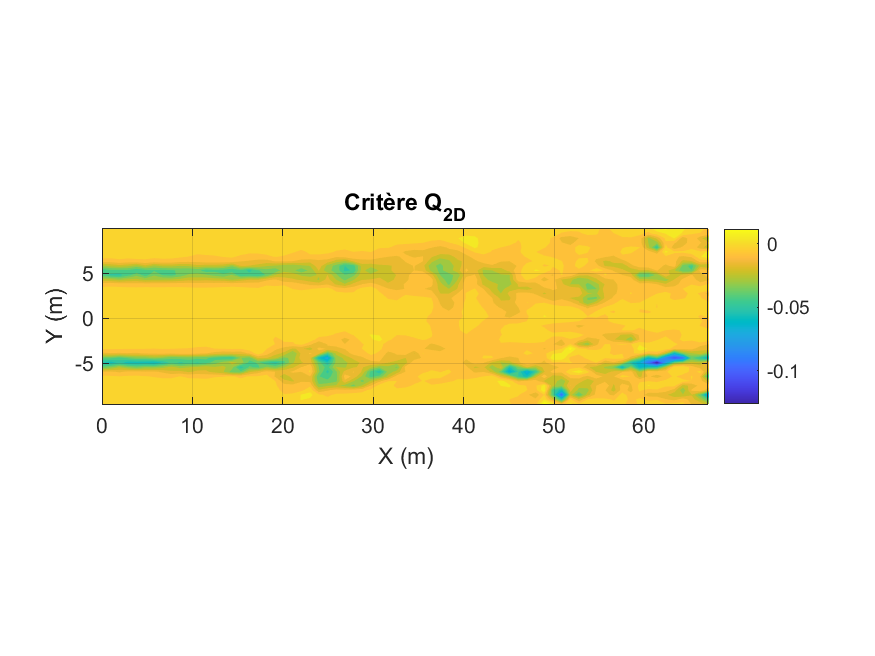
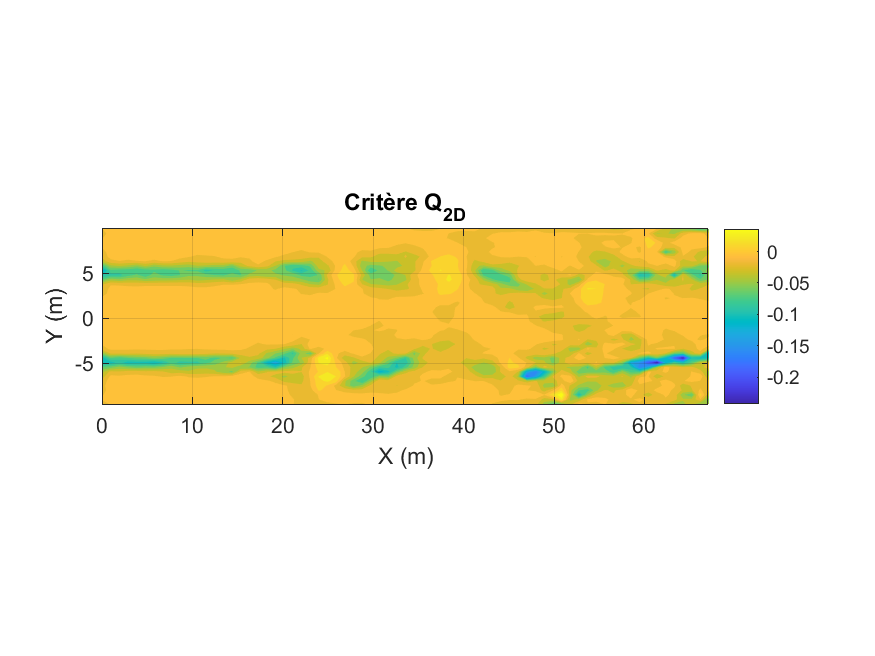
finalisation partie 1

diff --git a/src/projet.m b/src/projet.m
@@ -116,8 +116,6 @@ saveas(gcf, '../results/isocontours_corr_with_trend.png');
 
 I = 71;
 J = 39;
-Uc_center = 0.02;
-
 data = readmatrix('../data/champs/champ0020.dat', ...
     'FileType', 'text', 'NumHeaderLines', 2);
 
@@ -146,61 +144,65 @@ xStart_inlet = xLeft * ones(size(yStart));
 
 figure;
 set(gcf, 'Visible', 'off')
+% Crée un fond neutre blanc pour "encadrer" le champ comme un contourf vide
+contourf(X, Y, zeros(size(X)), 1, 'LineColor', 'none');
+colormap([1 1 1]);  % fond blanc
+hold on;
 quiver(X, Y, u, v);
-xlabel('X (m)'); ylabel('Y (m)');
+hold off;
+xlabel('X (m)');
+ylabel('Y (m)');
 title('Champ de vecteurs - Référentiel fixe');
 axis equal; grid on;
-saveas(gcf, '../results/champ_vect_ref_mes.png');
+ylim([-10, 10]);  % borne verticale comme demandé
+saveas(gcf, '../results/champ_vect_box_ref_mes.png');
 
 figure;
 set(gcf, 'Visible', 'off')
-verts_fixed_domain = stream2(X, Y, u, v, Xstart_domain, Ystart_domain);
-hlines_fixed_domain = streamline(verts_fixed_domain);
-set(hlines_fixed_domain, 'LineWidth', 0.5);
-xlabel('X (m)'); ylabel('Y (m)');
+% On fait une "fausse" carte de fond blanche uniforme
+contourf(X, Y, zeros(size(X)), 1, 'LineColor', 'none'); 
+colormap([1 1 1]);  % blanc
+hold on;
+% Tracé des streamlines
+streamslice(X, Y, u, v, 2);  % Densité contrôlée
+hold off;
+axis equal; grid on;
+xlabel('X (m)');
+ylabel('Y (m)');
 title('Lignes de courant - Référentiel fixe');
-axis equal; grid on;
-saveas(gcf, '../results/streamlines_ref_mes_domain.png');
+ylim([-10, 10]);
+saveas(gcf, '../results/streamlines_box_ref_fixe.png');
 
 figure;
 set(gcf, 'Visible', 'off')
-verts_fixed_inlet = stream2(X, Y, u, v, xStart_inlet, yStart);
-hlines_fixed_inlet = streamline(verts_fixed_inlet);
-set(hlines_fixed_inlet, 'LineWidth', 0.5);
-xlabel('X (m)'); ylabel('Y (m)');
-title('Lignes de courant - Référentiel fixe (Inlet Only)');
-axis equal; grid on;
-saveas(gcf, '../results/streamlines_ref_mes_inlet.png');
-
-figure;
-set(gcf, 'Visible', 'off')
+% Crée un fond neutre blanc pour "encadrer" le champ comme un contourf vide
+contourf(X, Y, zeros(size(X)), 1, 'LineColor', 'none');
+colormap([1 1 1]);  % fond blanc
+hold on;
 quiver(X, Y, u_moving, v_moving);
-xlabel('X (m)'); ylabel('Y (m)');
-title('Champ de vecteurs - Référentiel en translation');
+hold off;
+xlabel('X (m)');
+ylabel('Y (m)');
+title('Champ de vecteurs - Référentiel en tranlation');
 axis equal; grid on;
-saveas(gcf, '../results/champ_vect_ref_moving.png');
+ylim([-10, 10]);  % borne verticale comme demandé
+saveas(gcf, '../results/champ_vect_box_ref_moving.png');
 
 figure;
 set(gcf, 'Visible', 'off')
-verts_moving_domain = stream2(X, Y, u_moving, v_moving, ...
-                              Xstart_domain, Ystart_domain);
-hlines_moving_domain = streamline(verts_moving_domain);
-set(hlines_moving_domain, 'LineWidth', 0.5);
-xlabel('X (m)'); ylabel('Y (m)');
+% On fait une "fausse" carte de fond blanche uniforme
+contourf(X, Y, zeros(size(X)), 1, 'LineColor', 'none'); 
+colormap([1 1 1]);  % blanc
+hold on;
+% Tracé des streamlines
+streamslice(X, Y, u_moving, v_moving, 2);  % Densité contrôlée
+hold off;
+axis equal; grid on;
+xlabel('X (m)');
+ylabel('Y (m)');
 title('Lignes de courant - Référentiel en translation');
-axis equal; grid on;
-saveas(gcf, '../results/streamlines_ref_moving_domain.png');
-
-figure;
-set(gcf, 'Visible', 'off')
-verts_moving_inlet = stream2(X, Y, u_moving, v_moving, ...
-                             xStart_inlet, yStart);
-hlines_moving_inlet = streamline(verts_moving_inlet);
-set(hlines_moving_inlet, 'LineWidth', 0.5);
-xlabel('X (m)'); ylabel('Y (m)');
-title('Lignes de courant - Référentiel en translation (Inlet Only)');
-axis equal; grid on;
-saveas(gcf, '../results/streamlines_ref_moving_inlet.png');
+ylim([-10, 10]);
+saveas(gcf, '../results/streamlines_box_ref_moving.png');
 
 % ================================
 % QUESTION 4
@@ -209,10 +211,11 @@ saveas(gcf, '../results/streamlines_ref_moving_inlet.png');
 dx = mean(diff(X(1, :)));
 dy = mean(diff(Y(:, 1)));
 
-[dVdY, dVdX] = gradient(v, dy, dx);
-[dUdY, dUdX] = gradient(u, dy, dx);
+% Méthode de différences centrées avec circshift
+dvdx = (circshift(v, [0, -1]) - circshift(v, [0, 1])) / (2 * dx);
+dudy = (circshift(u, [-1, 0]) - circshift(u, [1, 0])) / (2 * dy);
+omega_z = dvdx - dudy;
 
-omega_z = dVdX - dUdY;
 
 figure;
 set(gcf, 'Visible', 'off')
@@ -228,15 +231,13 @@ nbPointsDomain = 20;
 xRange = linspace(min(X(:)), max(X(:)), nbPointsDomain);
 yRange = linspace(min(Y(:)), max(Y(:)), nbPointsDomain);
 [Xstart_domain, Ystart_domain] = meshgrid(xRange, yRange);
-verts_fixed = stream2(X, Y, u, v, Xstart_domain, Ystart_domain);
 
 figure;
 set(gcf, 'Visible', 'off')
 contourf(X, Y, omega_z, 20, 'LineColor', 'none'); 
 colorbar;
 hold on;
-hlines_fixed = streamline(verts_fixed);
-set(hlines_fixed, 'LineWidth', 0.5, 'Color', [0.5 0.5 0.5]); 
+streamslice(X, Y, u, v, 2);  % 2 = densité modérée
 hold off;
 axis equal; grid on;
 xlabel('X (m)');
@@ -244,13 +245,41 @@ ylabel('Y (m)');
 title('Superposition de la vorticité \omega_z et des lignes de courant (référentiel fixe)');
 saveas(gcf, '../results/vorticite_streamlines.png');
 
+% === Superposition vorticité + lignes de courant (référentiel en translation) ===
+figure;
+set(gcf, 'Visible', 'off')
+contourf(X, Y, omega_z, 20, 'LineColor', 'none');
+colorbar;
+hold on;
+streamslice(X, Y, u_moving, v_moving, 2);  % Densité contrôlée
+hold off;
+axis equal; grid on;
+xlabel('X (m)');
+ylabel('Y (m)');
+title('Superposition de la vorticité \omega_z et des lignes de courant (référentiel translation)');
+saveas(gcf, '../results/vorticite_streamlines_moving.png');
+
+
 % ================================
 % QUESTION 5
 % ================================
 
-Q2D = (1/4) * (dUdY - dVdX).^2 ...
-     - (1/2) * (dUdX.^2 + dVdY.^2 + (1/2)*(dUdY + dVdX).^2);
+% Dérivées centrées
+dudx = (circshift(u, [0, -1]) - circshift(u, [0, 1])) / (2 * dx);
+dudy = (circshift(u, [-1, 0]) - circshift(u, [1, 0])) / (2 * dy);
+dvdx = (circshift(v, [0, -1]) - circshift(v, [0, 1])) / (2 * dx);
+dvdy = (circshift(v, [-1, 0]) - circshift(v, [1, 0])) / (2 * dy);
 
+% Calcul du terme rotationnel (vorticité / 2)
+Omega = 0.5 * (dvdx - dudy);
+
+% Calcul du tenseur symétrique S^2
+S2 = dudx.^2 + dvdy.^2 + 0.5 * (dudy + dvdx).^2;
+
+% Formule de Q_{2D}
+Q2D = Omega.^2 - S2;
+
+% Affichage
 figure;
 set(gcf, 'Visible', 'off')
 contourf(X, Y, Q2D, 20, 'LineColor','none');
@@ -260,3 +289,16 @@ xlabel('X (m)');
 ylabel('Y (m)');
 title('Critère Q_{2D}');
 saveas(gcf, '../results/Q2D.png');
+
+figure;
+set(gcf, 'Visible', 'off')
+contourf(X, Y, Q2D, 20, 'LineColor','none');
+colormap(parula); colorbar;
+hold on;
+streamslice(X, Y, u_moving, v_moving, 2);
+hold off;
+axis equal; grid on;
+xlabel('X (m)');
+ylabel('Y (m)');
+title('Superposition de Q_{2D} et des lignes de courant (référentiel translation)');
+saveas(gcf, '../results/Q2D_streamlines_moving.png');
